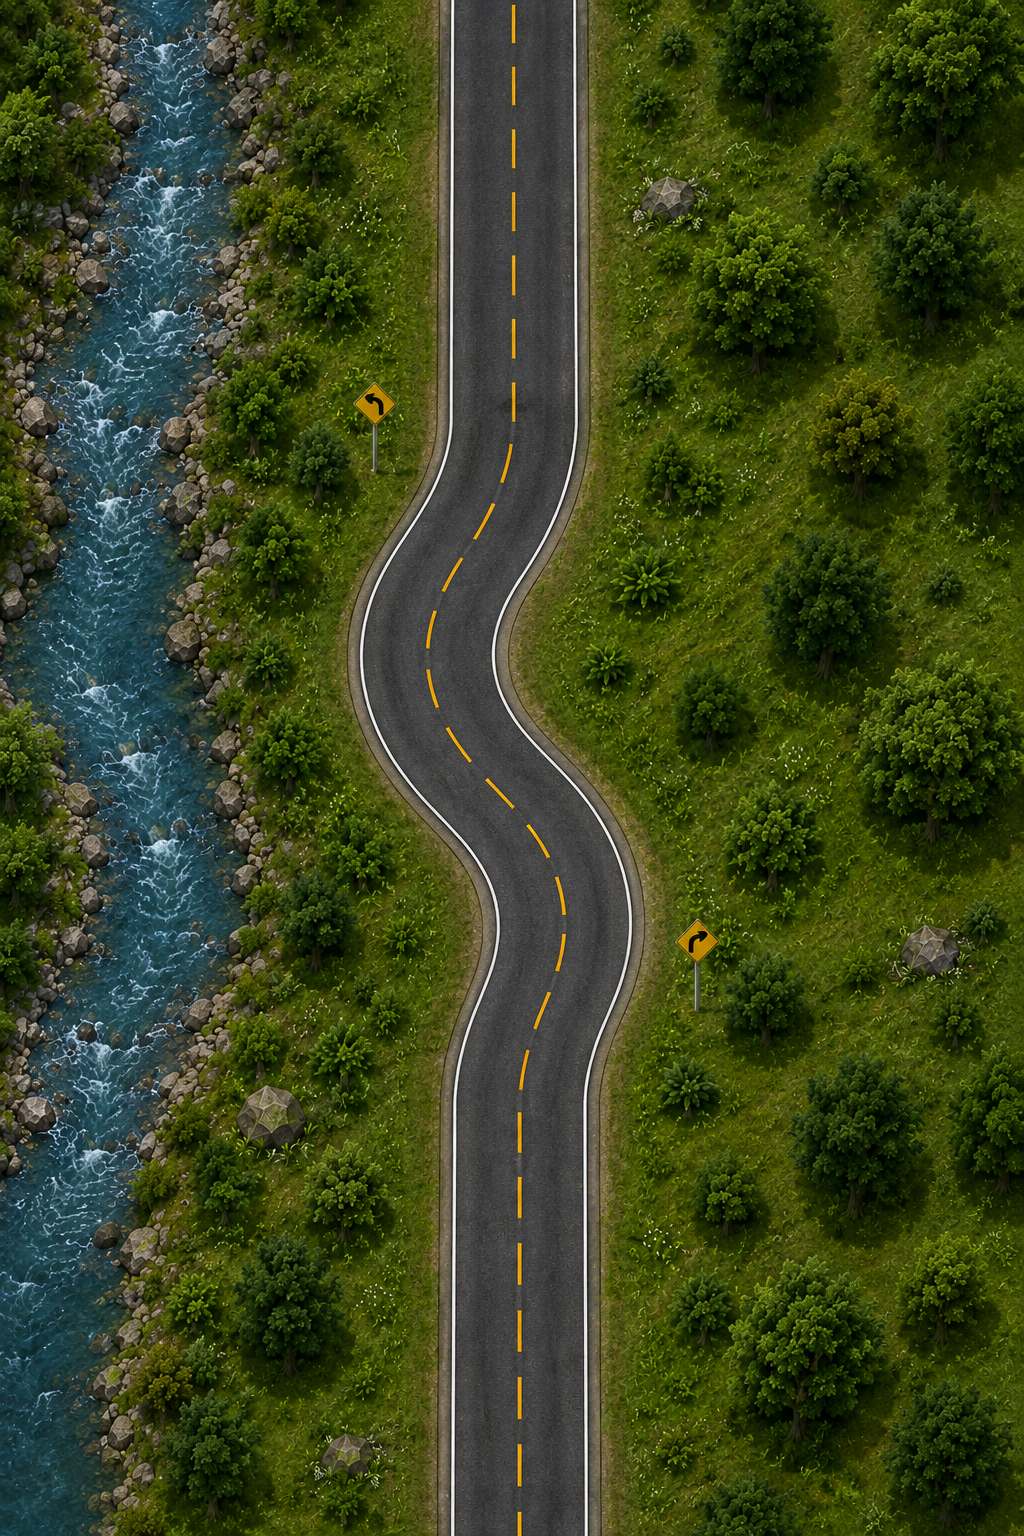
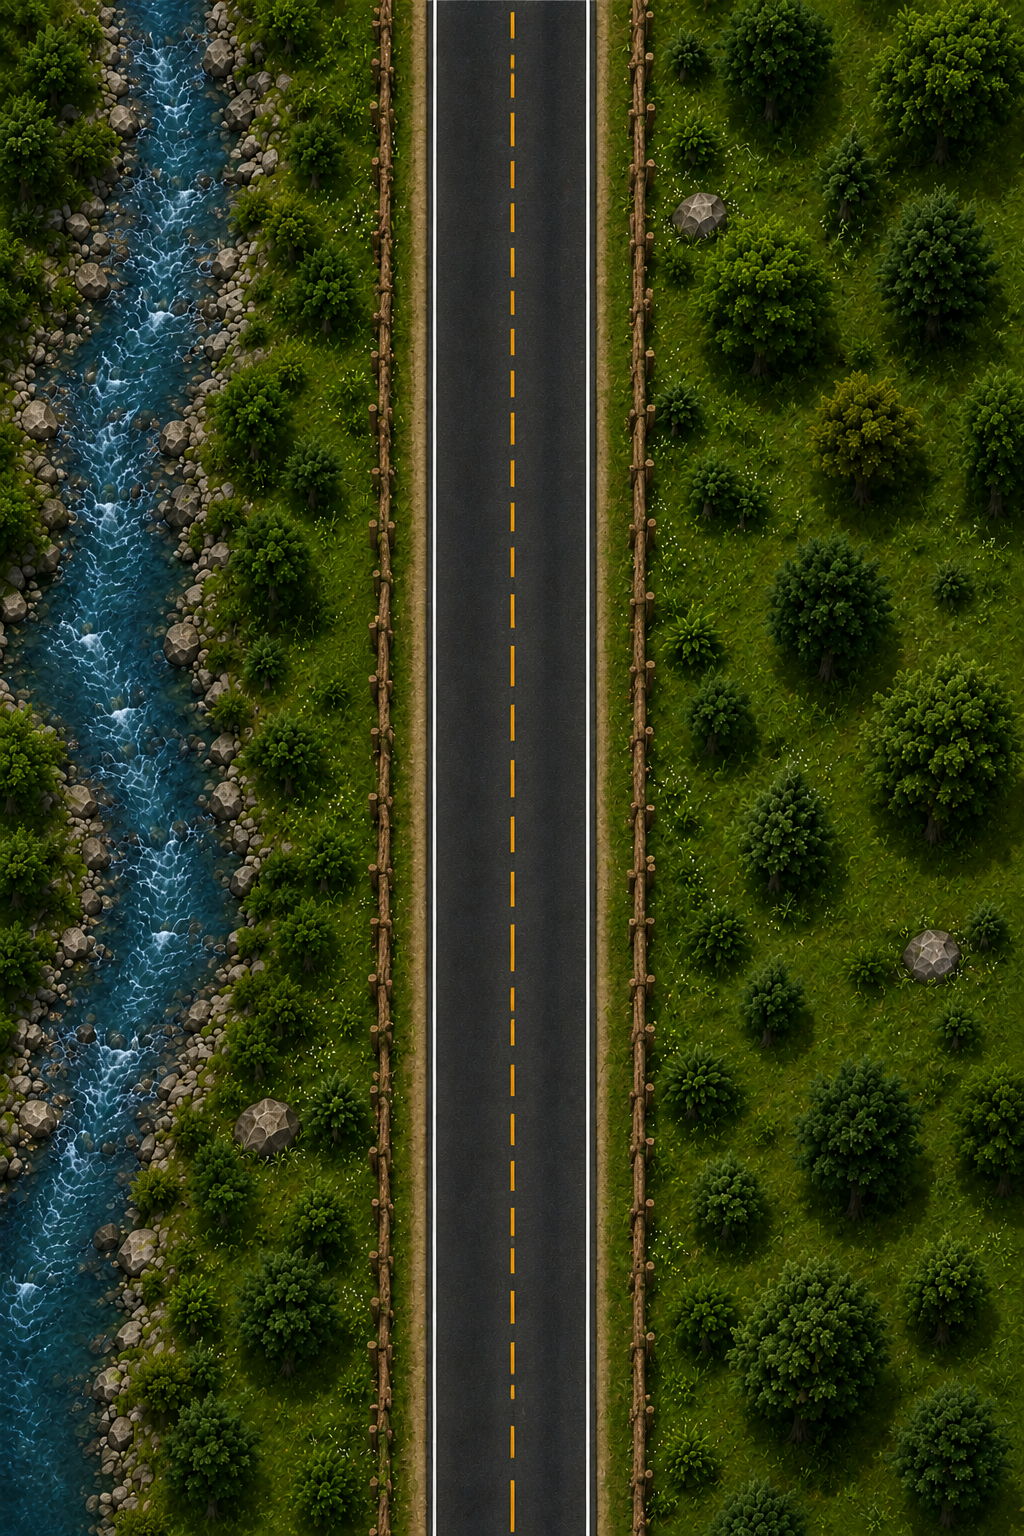
nuvos commits

diff --git a/templates/registro.html b/templates/registro.html
@@ -1,88 +1,87 @@
 <!DOCTYPE html>
 <html lang="es">
+
 <head>
     <meta charset="UTF-8">
     <meta name="viewport" content="width=device-width, initial-scale=1.0">
     <link rel="stylesheet" href="{{url_for('static', filename= 'css/registro.css')}}">
     <title>Registro</title>
 </head>
+
 <body>
 
-<main class="contenedor-registro">
+    <main class="contenedor-registro">
 
-    <h1>REGISTRO DEL USUARIO</h1>
+        <h1>REGISTRO DEL USUARIO</h1>
 
-    <form action="/seleccion_carretera" method="POST">
+        <!-- 🔥 AHORA ENVÍA A /registro -->
+        <form action="/registro" method="POST">
 
-        <div class="campo">
+            <!-- NOMBRE -->
+            <div class="campo">
 
-            <label>Nombre del usuario</label>
+                <label>Nombre del usuario</label>
 
-            <input type="text"
-            placeholder="Ingrese su nombre">
+                <input type="text" name="nombre" placeholder="Ingrese su nombre" required>
 
-        </div>
-
-        <div id="campo">
-
-            <label>
-                ¿Qué tipo de vehículo utiliza?
-            </label>
-        
-            <div id="grupo-vehiculos">
-        
-                <div class="vehiculo-item">
-        
-                    <span>Automóvil</span>
-        
-                    <select>
-        
-                        <option>Seleccione</option>
-        
-                        <option>Particular</option>
-        
-                        <option>Camioneta</option>
-        
-                    </select>
-        
-                </div>
-        
-                <div class="vehiculo-item">
-        
-                    <span>Motocicleta</span>
-        
-                    <input type="checkbox">
-        
-                </div>
-        
-                <div class="vehiculo-item">
-        
-                    <span>Bicicleta</span>
-        
-                    <input type="checkbox">
-        
-                </div>
-        
             </div>
-        
-        </div>
-        
-        <div class="botones">
 
-            <button type="button" onclick="window.location.href='seleccion_carretera'">
-                Continuar
-            </button>
-        
-            <button type="button"
-            onclick="window.location.href='/'">        
-                Volver       
-            </button>
-        
-        </div>
+            <!-- VEHÍCULO -->
+            <div id="campo">
 
-    </form>
+                <label>¿Qué tipo de vehículo utiliza?</label>
 
-</main>
+                <div id="grupo-vehiculos">
+
+                    <div class="vehiculo-item">
+
+                        <span>Automóvil</span>
+
+                        <select name="vehiculo">
+                            <option value="">Seleccione</option>
+                            <option value="Automovil">Particular</option>
+                            <option value="Camioneta">Camioneta</option>
+                        </select>
+
+                    </div>
+
+                    <div class="vehiculo-item">
+
+                        <span>Motocicleta</span>
+
+                        <input type="radio" name="vehiculo" value="Motocicleta">
+
+                    </div>
+
+                    <div class="vehiculo-item">
+
+                        <span>Bicicleta</span>
+
+                        <input type="radio" name="vehiculo" value="Bicicleta">
+
+                    </div>
+
+                </div>
+
+            </div>
+
+            <!-- BOTONES -->
+            <div class="botones">
+
+                <button type="submit">
+                    Continuar
+                </button>
+
+                <button type="button" onclick="window.location.href='/'">
+                    Volver
+                </button>
+
+            </div>
+
+        </form>
+
+    </main>
 
 </body>
+
 </html>

diff --git a/templates/opciones.html b/templates/opciones.html
@@ -27,7 +27,7 @@
 
                 <div class="card-configuracion" onclick="abrirModalClima()">
 
-                    <img src="{{ url_for('static', filename='img/clima.png') }}">
+                    <img src="{{ url_for('static', filename='img/clima.jpeg') }}">
 
                     <h2>Clima</h2>
 
@@ -37,7 +37,7 @@
 
                 <div class="card-configuracion" onclick="abrirModalDificultad()">
 
-                    <img src="{{ url_for('static', filename='img/dificultad.png') }}">
+                    <img src="{{ url_for('static', filename='img/dificultad.jpeg') }}">
 
                     <h2>Dificultad</h2>
 
@@ -57,7 +57,7 @@
 
                 <button type="submit" class="btn-continuar">
 
-                    Continuar
+                    Iniciar
 
                 </button>
 
@@ -87,7 +87,7 @@
 
                 <div class="opcion" onclick="seleccionarClima('Sol')">
 
-                    <img src="{{ url_for('static', filename='img/sol.png') }}">
+                    <img src="{{ url_for('static', filename='img/sol.jpeg') }}">
 
                     <h3>Sol</h3>
 
@@ -97,7 +97,7 @@
 
                 <div class="opcion" onclick="seleccionarClima('Lluvia')">
 
-                    <img src="{{ url_for('static', filename='img/lluvia.png') }}">
+                    <img src="{{ url_for('static', filename='img/lluvia.jpeg') }}">
 
                     <h3>Lluvia</h3>
 

diff --git a/templates/seleccion_carretera.html b/templates/seleccion_carretera.html
@@ -34,7 +34,7 @@
                 value="Tibasosa"
                 required>
 
-                <img src="{{ url_for('static', filename='img/tibasosa.jpg') }}">
+                <img src="{{ url_for('static', filename='img/destino.png') }}">
 
                 <h2>Sogamoso - Tibasosa</h2>
 
@@ -48,7 +48,7 @@
                 name="carretera"
                 value="Corrales">
 
-                <img src="{{ url_for('static', filename='img/corrales.jpg') }}">
+                <img src="{{ url_for('static', filename='img/destino.png') }}">
 
                 <h2>Sogamoso - Corrales</h2>
 
@@ -62,7 +62,7 @@
                 name="carretera"
                 value="Iza">
 
-                <img src="{{ url_for('static', filename='img/iza.jpg') }}">
+                <img src="{{ url_for('static', filename='img/destino.png') }}">
 
                 <h2>Sogamoso - Iza</h2>
 

diff --git a/app.py b/app.py
@@ -168,8 +168,15 @@ def api_iza_animales():
 # REGISTRO
 # =====================================================
 
[email redacted]('/registro')
[email redacted]('/registro', methods=['GET', 'POST'])
 def registro():
+
+    if request.method == 'POST':
+
+        session['nombre'] = request.form.get('nombre')
+        session['vehiculo'] = request.form.get('vehiculo')
+
+        return redirect(url_for('seleccion_carretera'))
 
     return render_template('registro.html')
 
@@ -294,48 +301,7 @@ def simulador_tibasosa():
     dificultad = session.get('dificultad', 'Media')
 
     # Animales base
-    animales = [
-        {
-            "nombre": "Zorro",
-            "descripcion": "Cruce frecuente en la vía",
-            "imagen": "zorro"
-        },
-        {
-            "nombre": "Venado",
-            "descripcion": "Animal detectado cerca del río",
-            "imagen": "venado"
-        },
-        {
-            "nombre": "Conejo",
-            "descripcion": "Cruce inesperado en carretera",
-            "imagen": "conejo"
-        },
-        {
-            "nombre": "Ardilla",
-            "descripcion": "Paso rápido entre árboles",
-            "imagen": "ardilla"
-        },
-        {
-            "nombre": "Perro",
-            "descripcion": "Animal doméstico en la vía",
-            "imagen": "perro"
-        },
-        {
-            "nombre": "Gato",
-            "descripcion": "Cruce nocturno frecuente",
-            "imagen": "gato"
-        },
-        {
-            "nombre": "Lechuza",
-            "descripcion": "Vuelo bajo cercano",
-            "imagen": "lechuza"
-        },
-        {
-            "nombre": "Caballo",
-            "descripcion": "Animal suelto en carretera",
-            "imagen": "caballo"
-        }
-    ]
+    animales = []
 
     # Cargar animales de Firebase
     try:
@@ -362,6 +328,54 @@ def simulador_tibasosa():
         'simulador_tibasosa.html',
         vehiculo=vehiculo,
         carretera="Tibasosa",
+        clima=clima,
+        dificultad=dificultad,
+        animales=animales
+    )
+
+
+# =====================================================
+# SIMULADOR CORRALES
+# =====================================================
+
[email redacted]('/simulador_corrales')
+def simulador_corrales():
+
+    vehiculo = session.get('vehiculo', 'camioneta')
+    clima = session.get('clima', 'Soleado')
+    dificultad = session.get('dificultad', 'Media')
+
+    # =========================================
+    # ANIMALES CORRALES
+    # =========================================
+
+    docs = db.collection("Corrales").stream()
+
+    animales = []
+
+    for doc in docs:
+
+        datos = doc.to_dict()
+
+        animales.append({
+
+            "nombre": datos.get("nombre", "Animal"),
+            "descripcion": datos.get("descripcion", "Cruce de fauna"),
+            "imagen": datos.get("imagen", "default.png")
+
+        })
+
+    print("===================================")
+    print("ANIMALES CORRALES")
+    print(animales)
+    print("===================================")
+
+    return render_template(
+
+        'simulador_corrales.html',
+
+        vehiculo=vehiculo,
+        carretera="Corrales",
         clima=clima,
         dificultad=dificultad,
         animales=animales